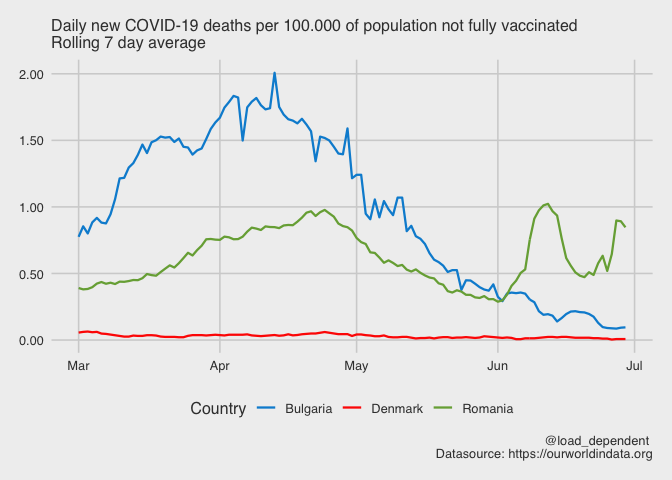
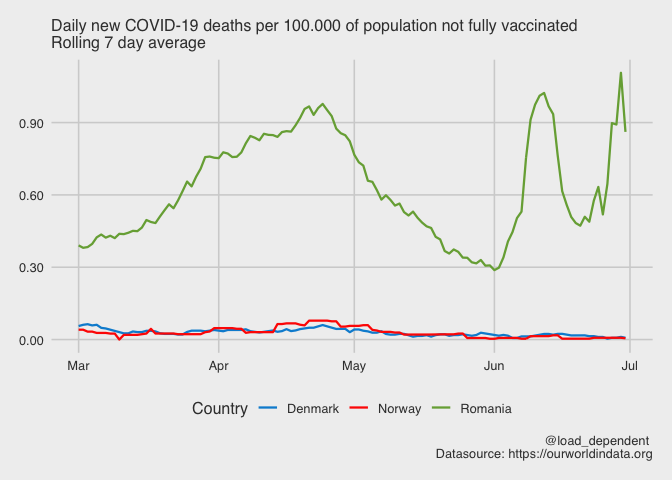
Changed countries

diff --git a/README.md b/README.md
@@ -2,20 +2,19 @@ OWID COVID-19 data visualisation
 ================
 Lars Mølgaard Saxhaug <https://twitter.com/load_dependent>
 
-Last compiled on Wednesday 30 June, 2021
+Last compiled on Thursday 01 July, 2021
 
 #### Countries of interest:
 
-Bulgaria, Denmark, Romania
+Norway, Denmark, Romania
 
 #### Date range of interest
 
-From Monday 01 March, 2021 to Wednesday 30 June, 2021
+From Monday 01 March, 2021 to Thursday 01 July, 2021
 
 #### Adjusted deaths
 
-![Vaccination coverage adjusted
-Deaths](README_files/figure-gfm/adjusted_deaths-1.png)
+![](README_files/figure-gfm/adjusted_deaths-1.png)<!-- -->
 
 #### Vaccinations
 
